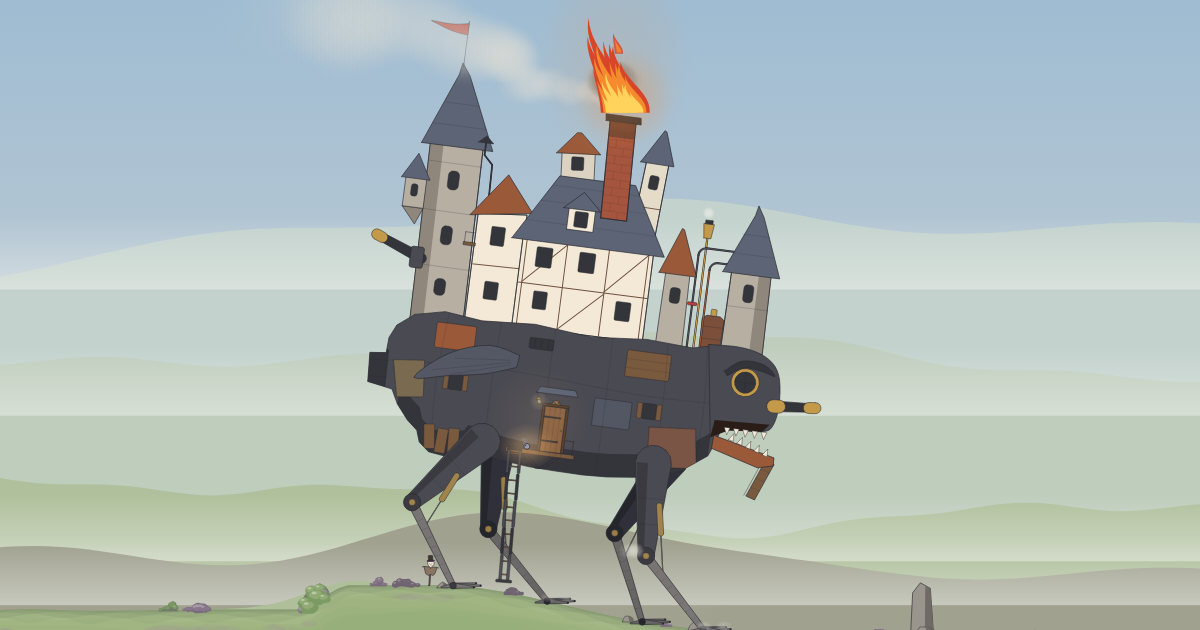
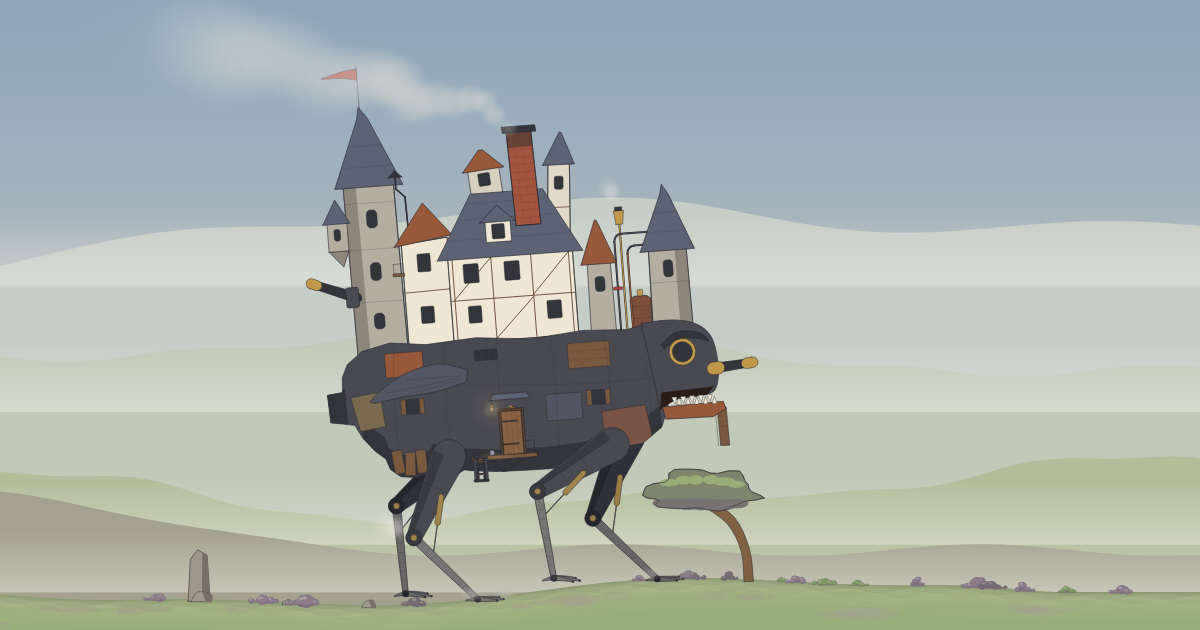
Merry-Go-Round: the share card is the third great stride (still 136.3): the whole castle from flag to feet striding past the thorn tree, its feet clear of the card's foot and the standing stone whole (the roar's frames all cut its toes on the card's wider crop)

Changed region(s): [[0.0, 0.0, 1.0, 1.0], [0.7092, 0.3619, 0.74, 0.3921]]

diff --git a/apps/rube/src/shows/versions/merry-go-round/opus55.show.ts b/apps/rube/src/shows/versions/merry-go-round/opus55.show.ts
@@ -4,6 +4,6 @@ export default defineShow({
   title: 'Merry-Go-Round',
   label: 'Opus 5.5',
   about: "Joe Hisaishi's Merry-Go-Round of Life, from Howl's Moving Castle, as a Rube Goldberg machine: a hatter, a curse, and a castle that walks.",
-  still: 128.05,
+  still: 136.3,
   async load() { return (await import('./howl')).performance },
 })
